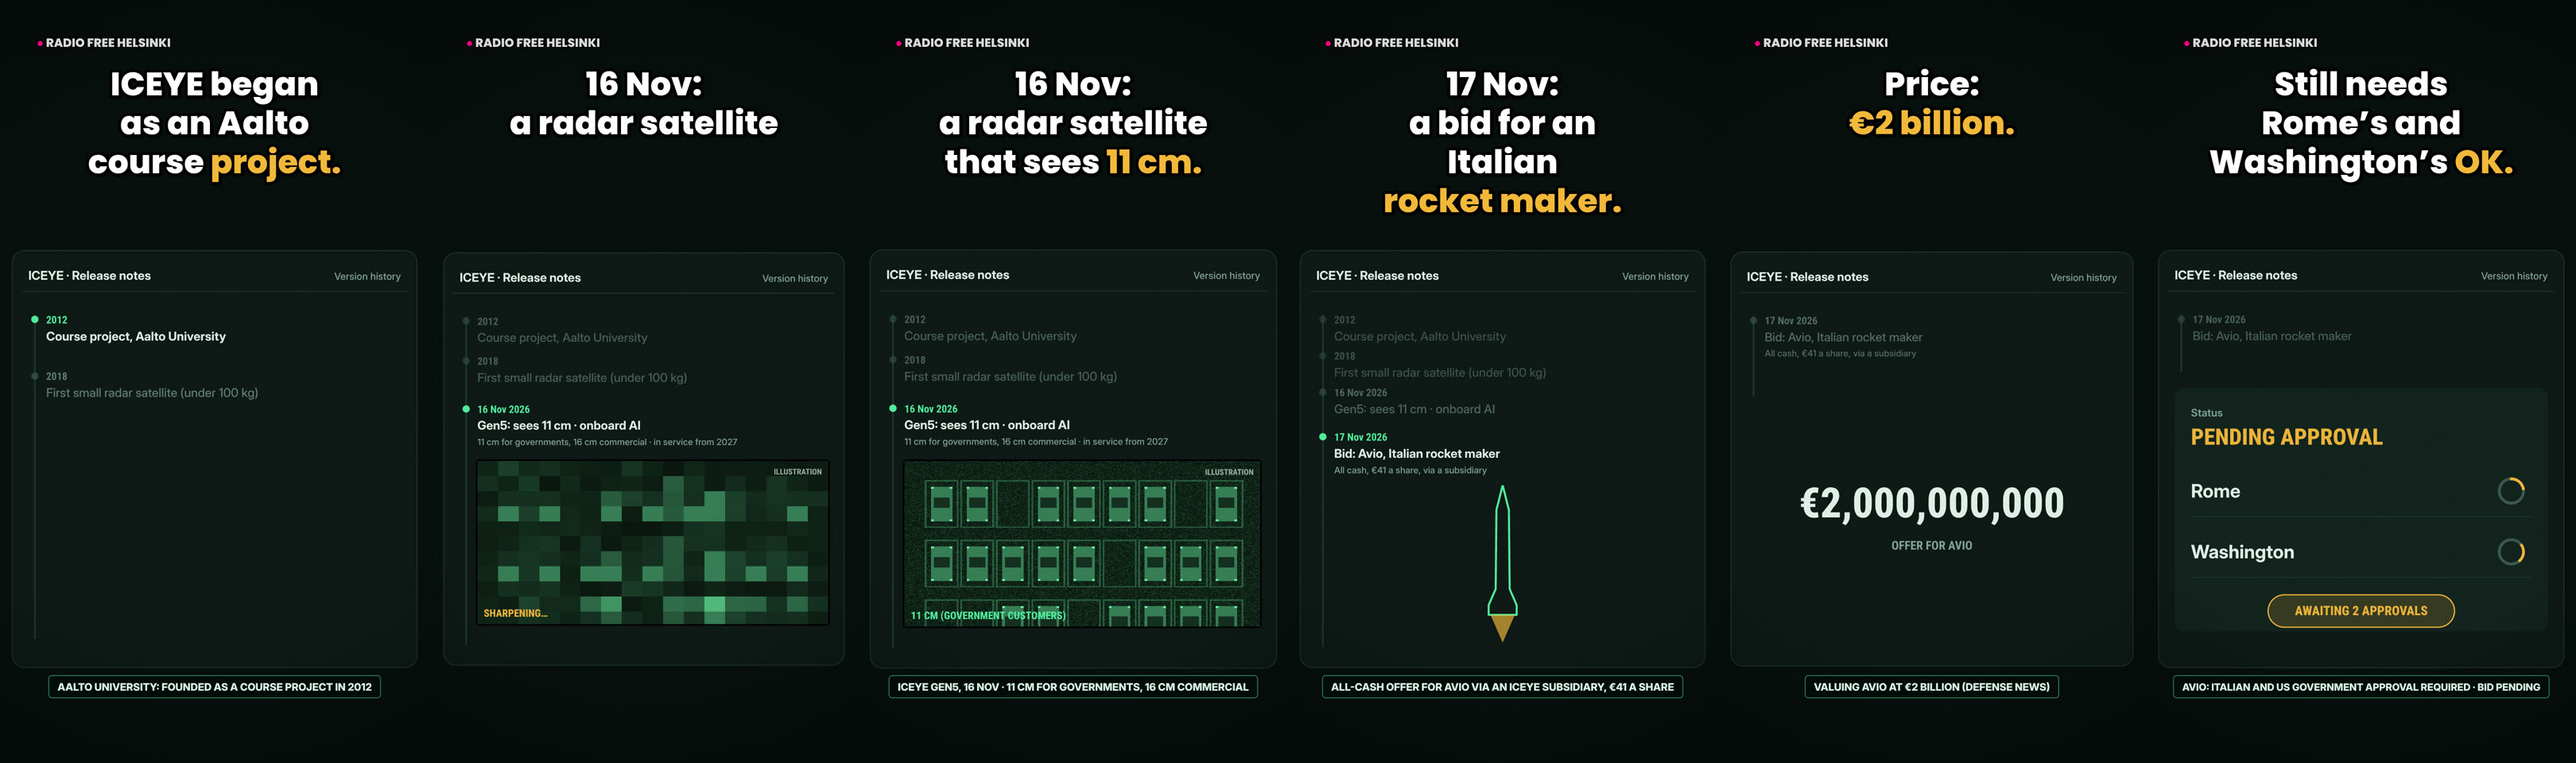
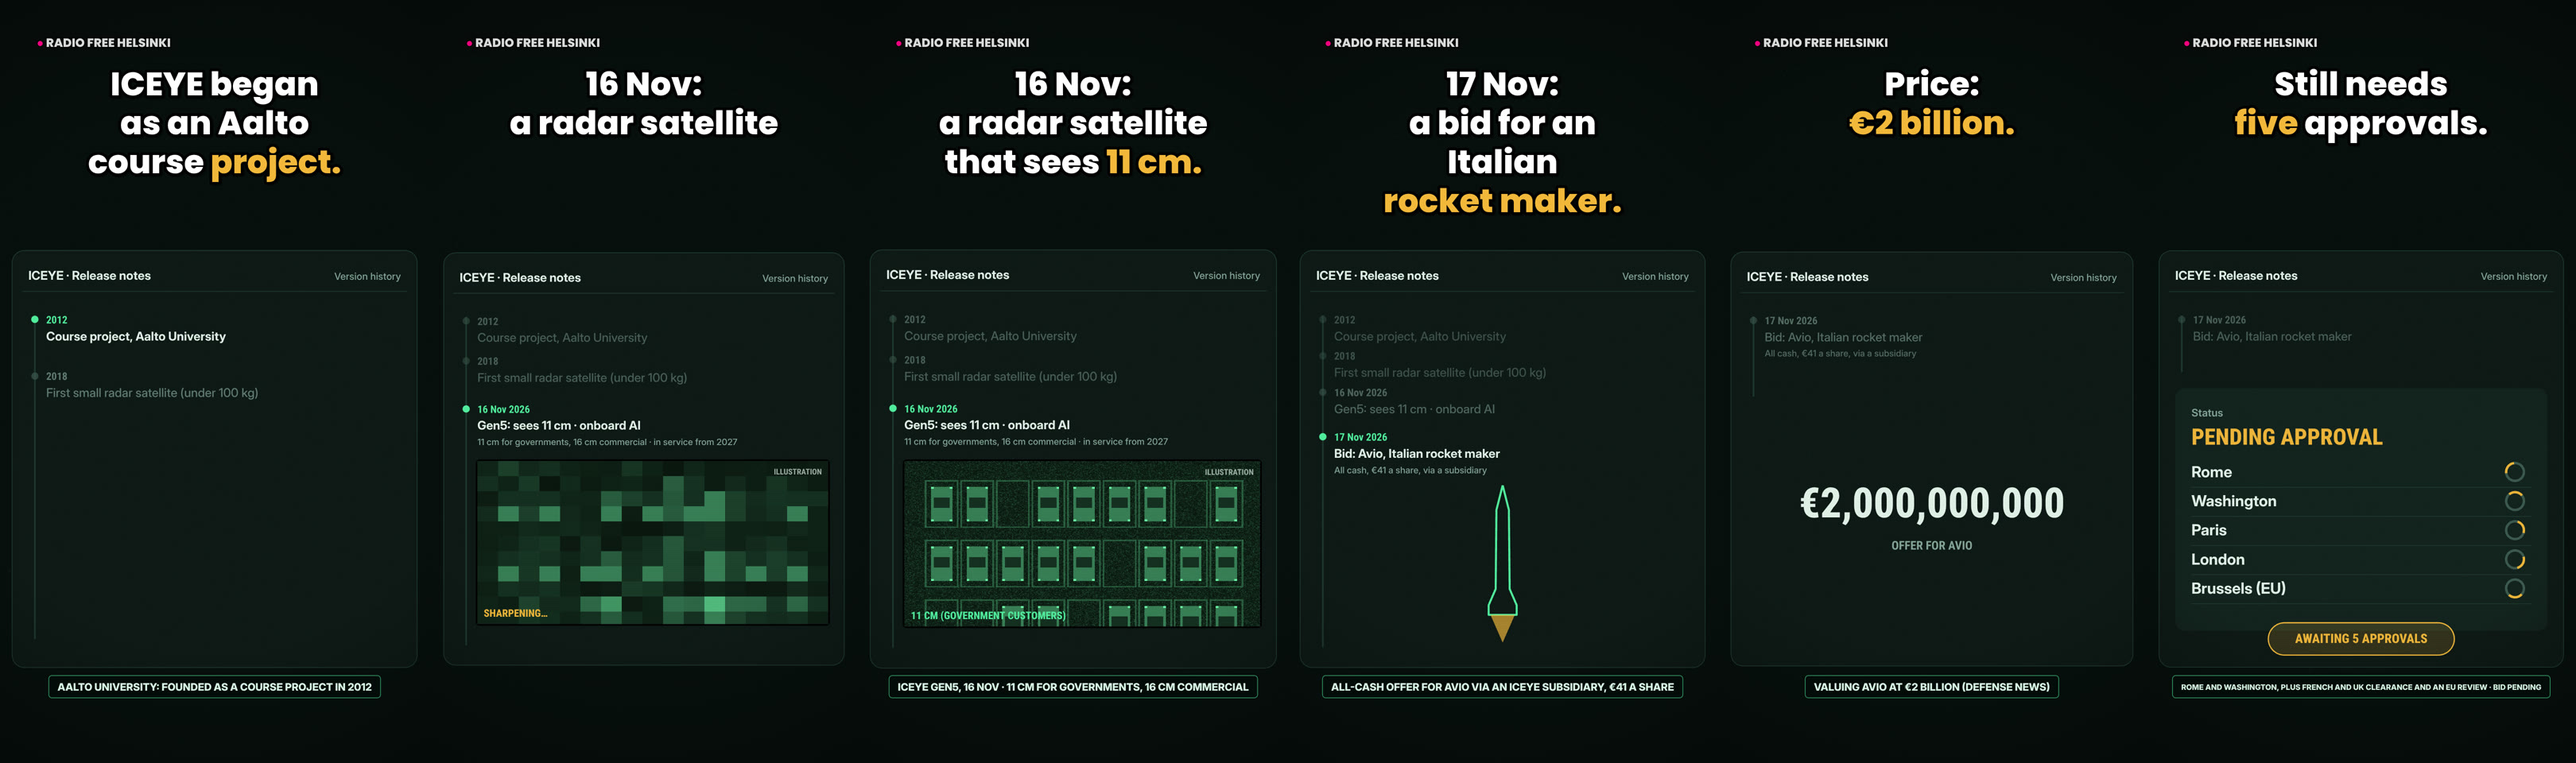
RFH Release Notes v1.1: five approvals, not two (the 22 Nov check)
Claude-Session: https://claude.ai/code/session_011b61vCGymuKHRP9nugFoKh

diff --git a/radiofree/studio/art-motion/clay/release/film.js b/radiofree/studio/art-motion/clay/release/film.js
@@ -96,12 +96,12 @@ function shot5(t) {
   const a = ease.out((t - EV.status) / 0.4); g.save(); g.globalAlpha = a;
   rr(80, 980, W - 160, 600, 24); g.fillStyle = C.panel2; g.fill();
   text(UI.status, 120, 1050, '600 26px Inter', C.dim); text(UI.pending.toUpperCase(), 120, 1120, '800 56px RobotoCondensed', C.amber);
-  [[UI.rome, 1250], [UI.wash, 1400]].forEach(([n, y], i) => { text(n, 120, y, '700 46px Inter', C.ink);
-    const cx = W - 170, cy = y - 16, a0 = t * 4 + i; g.strokeStyle = C.faint; g.lineWidth = 7; g.beginPath(); g.arc(cx, cy, 30, 0, TAU); g.stroke();
-    g.strokeStyle = C.amber; g.beginPath(); g.arc(cx, cy, 30, a0, a0 + 1.6); g.stroke(); g.fillStyle = C.line; g.fillRect(120, y + 46, W - 240, 2); });
+  [UI.rome, UI.wash, UI.paris, UI.london, UI.brussels].forEach((n, i) => { const y = 1200 + i * 72, ai = clamp((t - EV.status - 0.15 * i) / 0.3); g.save(); g.globalAlpha *= ai; text(n, 120, y, '700 38px Inter', C.ink);
+    const cx = W - 160, cy = y - 13, a0 = t * 4 + i; g.strokeStyle = C.faint; g.lineWidth = 6; g.beginPath(); g.arc(cx, cy, 22, 0, TAU); g.stroke();
+    g.strokeStyle = C.amber; g.beginPath(); g.arc(cx, cy, 22, a0, a0 + 1.6); g.stroke(); g.fillStyle = C.line; g.fillRect(120, y + 24, W - 240, 2); g.restore(); });
   const p = t > EV.ok ? ease.back((t - EV.ok) / 0.35) : 0; g.restore();
-  if (p > 0) { g.save(); g.translate(W / 2, 1530); g.scale(p, p); rr(-230, -40, 460, 80, 40); g.fillStyle = 'rgba(242,184,58,.16)'; g.fill(); g.strokeStyle = C.amber; g.lineWidth = 3; g.stroke();
-    text('AWAITING 2 APPROVALS', 0, 2, '800 32px RobotoCondensed', C.amber, 'center', 'middle'); g.restore(); }
+  if (p > 0) { g.save(); g.translate(W / 2, 1600); g.scale(p, p); rr(-230, -40, 460, 80, 40); g.fillStyle = 'rgba(242,184,58,.16)'; g.fill(); g.strokeStyle = C.amber; g.lineWidth = 3; g.stroke();
+    text('AWAITING 5 APPROVALS', 0, 2, '800 32px RobotoCondensed', C.amber, 'center', 'middle'); g.restore(); }
 }
 
 function tag(s, a, y = 1700) {

diff --git a/radiofree/studio/art-motion/plan/films/51-release-notes.md b/radiofree/studio/art-motion/plan/films/51-release-notes.md
@@ -16,3 +16,8 @@ radar picture of a parking lot is DRAWN and labelled ILLUSTRATION; it sharpens t
 Captions: "ICEYE began / as an Aalto / course [project]." · "16 Nov: / a radar satellite / that sees [11 cm]." · "17 Nov: / a bid for an /
 Italian / [rocket maker]." · "Price: / [€2 billion]." · "Still needs / Rome’s and / Washington’s [OK]." 21.6 s.
 Not about Anthropic: no disclosure line. Stills: previews/22-11-RFH-Release-Notes-stills.jpg
+
+## v1.1 (22 Nov, the 07:16 check)
+The bid also needs French and UK investment clearance and an EU foreign-subsidies review besides Italy and the US (Defense Post,
+AeroTime); Italy's defence minister urged caution, Leonardo holds ~18% of Avio (Reuters 18 Nov). Punchline now "Still needs /
+[five] approvals."; the status screen lists Rome, Washington, Paris, London, Brussels (EU); tag5 and the post updated.
